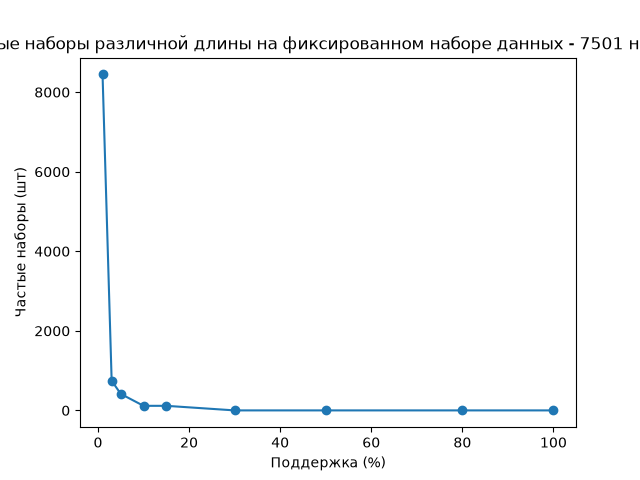
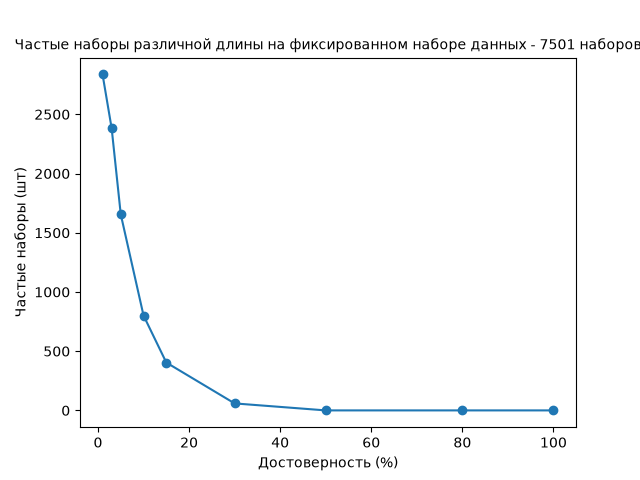
implement confidence

diff --git a/apriori/apriori.py b/apriori/apriori.py
@@ -9,91 +9,104 @@ class OrderType(Enum):
   lexi = 2   
 
 class Apriori:
-  def __init__(self, support, orderType):
-    # assuming support is passed in percentages
+  def __init__(self, support, orderType, confidence):
     self.support = support / 100
     self.orderType = orderType
+    self.confidence = confidence / 100
 
   def Calculate(self, src):
     self.LoadData(src)
     
-    lastData = []
     lastCombinations = self.CombineItems(self.data, 1)
     lastFrequency = self.CountFrequency(self.data, lastCombinations)
+    
+    lastCombinations = [combo for combo in lastCombinations if combo in lastFrequency and self.CalculateSupport(lastFrequency[combo]) >= self.support]
     combinationsNumber = 2
 
     resultingCombinations = {}
+    rules = {}
+
+    for item in lastCombinations:
+      resultingCombinations[item] = self.CalculateSupport(lastFrequency[item])
 
     while (True):
-      data, frequency, combinations = self.Iterate(lastData, lastCombinations, lastCombinations, combinationsNumber)
+      data, frequency, combinations = self.Iterate(lastFrequency, lastCombinations, combinationsNumber)
 
       if len(data) == 0:
         break
 
-      lastData = data
       lastFrequency = frequency
-      lastCombinations = combinations
+      lastCombinations = data
 
-      # output frequency since we do not want to change methods to add support to them as well;
-      # frequency contains all processed items so have to sort them first
-      resultingCombinations.update(frequency)
+      frequencyToAdd = {}
+
+      for item in frequency:
+        itemSupport = self.CalculateSupport(frequency[item])
+
+        if itemSupport >= self.support:
+          frequencyToAdd[item] = itemSupport
+
+      resultingCombinations.update(frequencyToAdd)
+
+      for frequencyItem in frequency:
+        if len(frequencyItem) <= 1:
+          continue
+
+        frequencyItemSupport = self.CalculateSupport(frequency[frequencyItem])
+
+        for combinationSize in range(1, len(frequencyItem)):
+          for combination in itertools.combinations(frequencyItem, combinationSize):
+    
+            antecedentFrequency = self.CountFrequency(self.data, [combination])
+            antecedentSupport = self.CalculateSupport(antecedentFrequency[combination])
+
+            confidence = frequencyItemSupport / antecedentSupport
+
+            if confidence < self.confidence:
+              continue
+
+            consequent = (set(frequencyItem) - set(combination))
+            rules[f"({', '.join(combination)}) => ({', '.join(consequent)})"] = confidence
 
       combinationsNumber += 1
 
-    outputData = self.SortToOutput(resultingCombinations)
-    self.Output(outputData)
+    outputCombinations = self.SortToOutput(resultingCombinations)
+    outputRules = self.SortToOutput(rules)
 
-    return resultingCombinations
+    return [outputCombinations, outputRules]
 
   def SortToOutput(self, data):
     output = dict()
 
-    sortedData = {}
-
-    for item in data:
-      itemSupport = self.CalculateSupport(data[item])
-
-      if itemSupport >= self.support:
-        sortedData[item] = itemSupport
-
     if self.orderType == OrderType.lexi:
-      output = dict(sorted(sortedData.items(), key=lambda x: x[0]))
+      output = dict(sorted(data.items(), key=lambda x: str(x[0])))
     else:
-      output = dict(sorted(sortedData.items(), key=lambda x: x[1], reverse=True))
+      output = dict(sorted(data.items(), key=lambda x: x[1], reverse=True))
 
     return output
 
-  def Output(self, data):
-    print("Выходные данные:")
+  def Iterate(self, frequency, combinations, combinationsNumber):
+    candidates = self.CombineItems(combinations, combinationsNumber)
+    newFrequency = self.CountFrequency(self.data, candidates)
+    newData = self.Prune(newFrequency, candidates)
 
-    for item in data:
-      supportToOutput = data[item] * 100
-
-      print(f"Набор '{', '.join(item)}', поддержка - {supportToOutput:.3f}%")
-
-  def Iterate(self, data, frequency, combinations, combinationsNumber):
-    frequency = self.CountFrequency(self.data, combinations)
-    newData = self.Prune(frequency, combinations)
-    combinations = self.CombineItems(newData, combinationsNumber)
-
-    return newData, frequency, combinations
+    return newData, newFrequency, newData
 
   def LoadData(self, src):
     sourceData = pd.read_csv(src, sep=r'[;,]', engine='python', header=None, encoding='cp1251')
     self.data = [[item for item in row if pd.notna(item)] for row in sourceData.values.tolist()]
 
   def CountFrequency(self, data, combinations):
-    frequency = {}
-
-    for combination in combinations:
-      for row in data:
-        if set(combination).issubset(row):
-          if combination in frequency:
-            frequency[combination] += 1
-          else:
-            frequency[combination] = 1
-
-    return frequency
+    frequency = {combo: 0 for combo in combinations}
+    comboSets = [(combo, set(combo)) for combo in combinations]
+    
+    for row in data:
+      rowSet = set(row)
+      for combo, comboSet in comboSets:
+        if comboSet.issubset(rowSet):
+          frequency[combo] += 1
+          
+    return {k: v for k, v in frequency.items() if v > 0}
 
   def Prune(self, frequency, combinations):
     newData = []
@@ -110,18 +123,24 @@ class Apriori:
     return newData
 
   def CombineItems(self, data, level):
-    uniques = set()
+    if level == 1:
+      uniques = set()
+      for row in data:
+        for item in row:
+          uniques.add(item)
+      combinations = []
+      for combo in itertools.combinations(uniques, level):
+        combinations.append(combo)
+      return combinations
 
-    for row in data:
-      for item in row:
-        uniques.add(item)
-      
-    combinations = []
-
-    for combo in itertools.combinations(uniques, level):
-      combinations.append(combo)
-    
-    return combinations
+    candidates = set()
+    for i in range(len(data)):
+      for j in range(i + 1, len(data)):
+        item1 = sorted(data[i])
+        item2 = sorted(data[j])
+        if item1[:-1] == item2[:-1]:
+          candidates.add(tuple(sorted(list(set(item1) | set(item2)))))
+    return list(candidates)
 
   def CalculateSupport(self, frequency):
     return frequency / len(self.data)

diff --git a/apriori/main.py b/apriori/main.py
@@ -1,33 +1,55 @@
 import os
 from apriori import Apriori, OrderType
 
-while True:
-  filePath = input("Введите путь к файлу: ").strip()
+# while True:
+#   filePath = input("Введите путь к файлу: ").strip()
     
-  if os.path.exists(filePath):
-    break
-  else:
-    print("Файл не найден. Попробуйте еще раз")
+#   if os.path.exists(filePath):
+#     break
+#   else:
+#     print("Файл не найден. Попробуйте еще раз")
 
-try:
-  support = float(input("Введите значение поддержки (%): "))
-except ValueError:
-  print("Введено не число. Установлено значение по умолчанию - 15")
-  support = 15
+# try:
+#   support = float(input("Введите значение поддержки (%): "))
+# except ValueError:
+#   print("Введено не число. Установлено значение по умолчанию - 15")
+#   support = 15
 
-print("\nДоступные типы сортировки:")
-print("1 — Сортировка по убыванию поддержки")
-print("2 — Лексикографическая сортировка")
+# try:
+#   confidence = float(input("Введите значение достоверности (%): "))
+# except ValueError:
+#   print("Введено не число. Установлено значение по умолчанию - 15")
+#   confidence = 15
 
-sortChoice = input("Выберите тип сортировки: ")
 
-if sortChoice == "1" or sortChoice.lower() == "supportdesc":
-  orderType = OrderType.supportDesc
-elif sortChoice == "2" or sortChoice.lower() == "lexi":
-  orderType = OrderType.lexi
-else:
-  print("Неверный выбор. Установлен тип по умолчанию - supportDesc")
-  orderType = OrderType.supportDesc
+# print("\nДоступные типы сортировки:")
+# print("1 — Сортировка по убыванию поддержки")
+# print("2 — Лексикографическая сортировка")
 
-apriori = Apriori(support=support, orderType=orderType)
-apriori.Calculate(filePath)
+# sortChoice = input("Выберите тип сортировки: ")
+
+# if sortChoice == "1" or sortChoice.lower() == "supportdesc":
+#   orderType = OrderType.supportDesc
+# elif sortChoice == "2" or sortChoice.lower() == "lexi":
+#   orderType = OrderType.lexi
+# else:
+#   print("Неверный выбор. Установлен тип по умолчанию - supportDesc")
+#   orderType = OrderType.supportDesc
+
+# apriori = Apriori(support=support, orderType=orderType, confidence=confidence)
+apriori = Apriori(support=2, confidence=5, orderType=OrderType.supportDesc)
+combinations, rules = apriori.Calculate("./baskets.csv")
+# combinations, rules = apriori.Calculate("./test1.csv")
+# combinations, rules = apriori.Calculate("./test3.csv")
+
+print("Выходные данные:")
+
+for item in combinations:
+  supportToOutput = combinations[item] * 100
+
+  print(f"Набор '{', '.join(item)}'; поддержка - {supportToOutput:.3f}%")
+
+for item in rules:
+  confidenceToOutput = rules[item] * 100
+
+  print(f"{item}; достоверность - {confidenceToOutput:.3f}%")

diff --git a/apriori/diagrams.py b/apriori/diagrams.py
@@ -12,43 +12,57 @@ with open(filePath, mode='r', encoding='cp1251') as f:
 
 timeData = []
 suppData = []
+confData = []
 itemsData = []
 
-def RunTest(support):
+supportValue = 2 
+
+def RunTest(support, confidence):
   startTime = time.perf_counter()
 
-  apriori = Apriori(support=support, orderType=OrderType.supportDesc)
-  aprioriData = apriori.Calculate(filePath)
+  apriori = Apriori(support=support, confidence=confidence, orderType=OrderType.supportDesc)
+  calculatedCombinations, calculatedRules = apriori.Calculate(filePath)
 
   endTime = time.perf_counter()
   executionTime = endTime - startTime
 
   timeData.append(executionTime)
   suppData.append(support)
-  itemsData.append(len(aprioriData))
+  confData.append(confidence)
+  itemsData.append(len(calculatedRules))
 
   return executionTime
 
-supp1Exec = RunTest(1)
-supp1Exec = RunTest(3)
-supp1Exec = RunTest(5)
-supp1Exec = RunTest(10)
-supp1Exec = RunTest(15)
-supp1Exec = RunTest(30)
-supp1Exec = RunTest(50)
-supp1Exec = RunTest(80)
-supp1Exec = RunTest(100)
+supp1Exec = RunTest(supportValue, 1)
+supp1Exec = RunTest(supportValue, 3)
+supp1Exec = RunTest(supportValue, 5)
+supp1Exec = RunTest(supportValue, 10)
+supp1Exec = RunTest(supportValue, 15)
+supp1Exec = RunTest(supportValue, 30)
+supp1Exec = RunTest(supportValue, 50)
+supp1Exec = RunTest(supportValue, 80)
+supp1Exec = RunTest(supportValue, 100)
 
-plt.plot(suppData, timeData, linestyle='-', marker='o')
-plt.title(f"Быстродействие на фиксированном наборе данных - {totalCells} наборов")
+plt.plot(confData, timeData, linestyle='-', marker='o')
+plt.title(f"Быстродействие на фиксированном наборе данных - {totalCells} наборов", fontsize=12)
 plt.ylabel("Время обработки (сек)")
-plt.xlabel("Поддержка (%)")
+plt.xlabel("Достоверность (%)")
+plt.figtext(
+    0.6, 0.0001, 
+    f"Значение поддержки постоянно и равно {supportValue}%", 
+    horizontalalignment='right', 
+    fontsize=10, 
+    fontstyle='italic',
+    color='gray'
+)
 plt.savefig(f"{filePath}__speed-support.png")
 
 plt.clf()
 
-plt.plot(suppData, itemsData, linestyle='-', marker='o')
-plt.title(f"Частые наборы различной длины на фиксированном наборе данных - {totalCells} наборов")
+print(confData, itemsData)
+
+plt.plot(confData, itemsData, linestyle='-', marker='o')
+plt.title(f"Частые наборы различной длины на фиксированном наборе данных - {totalCells} наборов", fontsize=10)
 plt.ylabel("Частые наборы (шт)")
-plt.xlabel("Поддержка (%)")
+plt.xlabel("Достоверность (%)")
 plt.savefig(f"{filePath}__items-support.png")
